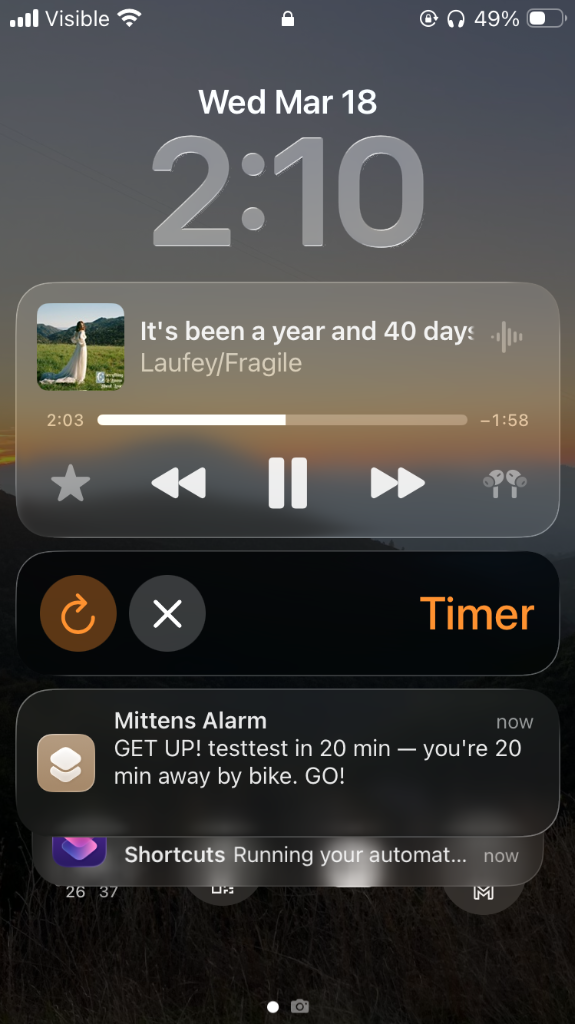
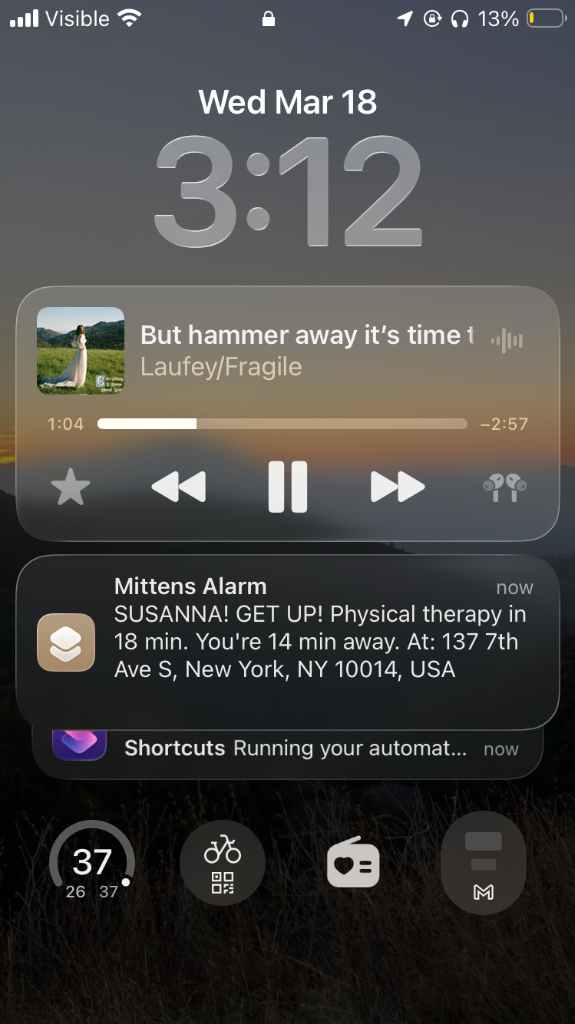
Update screenshots, add location.py to docs, add GitHub topics

diff --git a/README.md b/README.md
@@ -104,14 +104,18 @@ Open **Mail** app and add your **iCloud** account (iCloud gets instant push; Gma
 
 #### Automation 3: Alarm Trigger
 - **Trigger**: Email → Sender (your FROM_EMAIL) → Subject Contains `MITTENS_ALARM`
-- **Actions**: Start Timer (3 seconds) + Show Notification
+- **Actions**:
+  1. Start Timer (3 seconds)
+  2. Show Notification (Content from email)
+  3. Copy Content to clipboard
+  4. Search in Google Maps (Open When Run ✓)
 - Run Immediately ✓
 
 <img src="docs/automations.png" width="250" alt="iPhone automations"> <img src="docs/alarm_shortcut.png" width="250" alt="Alarm shortcut actions">
 
 #### What it looks like when it fires:
 
-<img src="docs/alarm_notification.png" width="250" alt="Mittens alarm on lock screen">
+<img src="docs/alarm_notification.png" width="250" alt="Mittens alarm on lock screen"> <img src="docs/google_maps.png" width="250" alt="Google Maps with address">
 
 ## Calendar Events
 
@@ -157,6 +161,7 @@ travel.py           → Travel time (bicycling/driving/walking/transit)
 alerts.py           → Email alerts via Resend
 memory.py           → SQLite attendance tracking
 scheduler.py        → Adaptive polling intervals
+location.py         → GPS location handling
 auth_helper.py      → One-time Google OAuth (run locally)
 ```
 
@@ -169,3 +174,7 @@ auth_helper.py      → One-time Google OAuth (run locally)
 | Google Calendar API | Free |
 | Google Maps API | Free tier or skip (uses estimates) |
 | **Total** | **$0/month** |
+
+---
+
+> **GitHub Topics**: `personal-assistant` `ios-automation` `google-calendar` `productivity` `iphone-shortcuts` `python`
